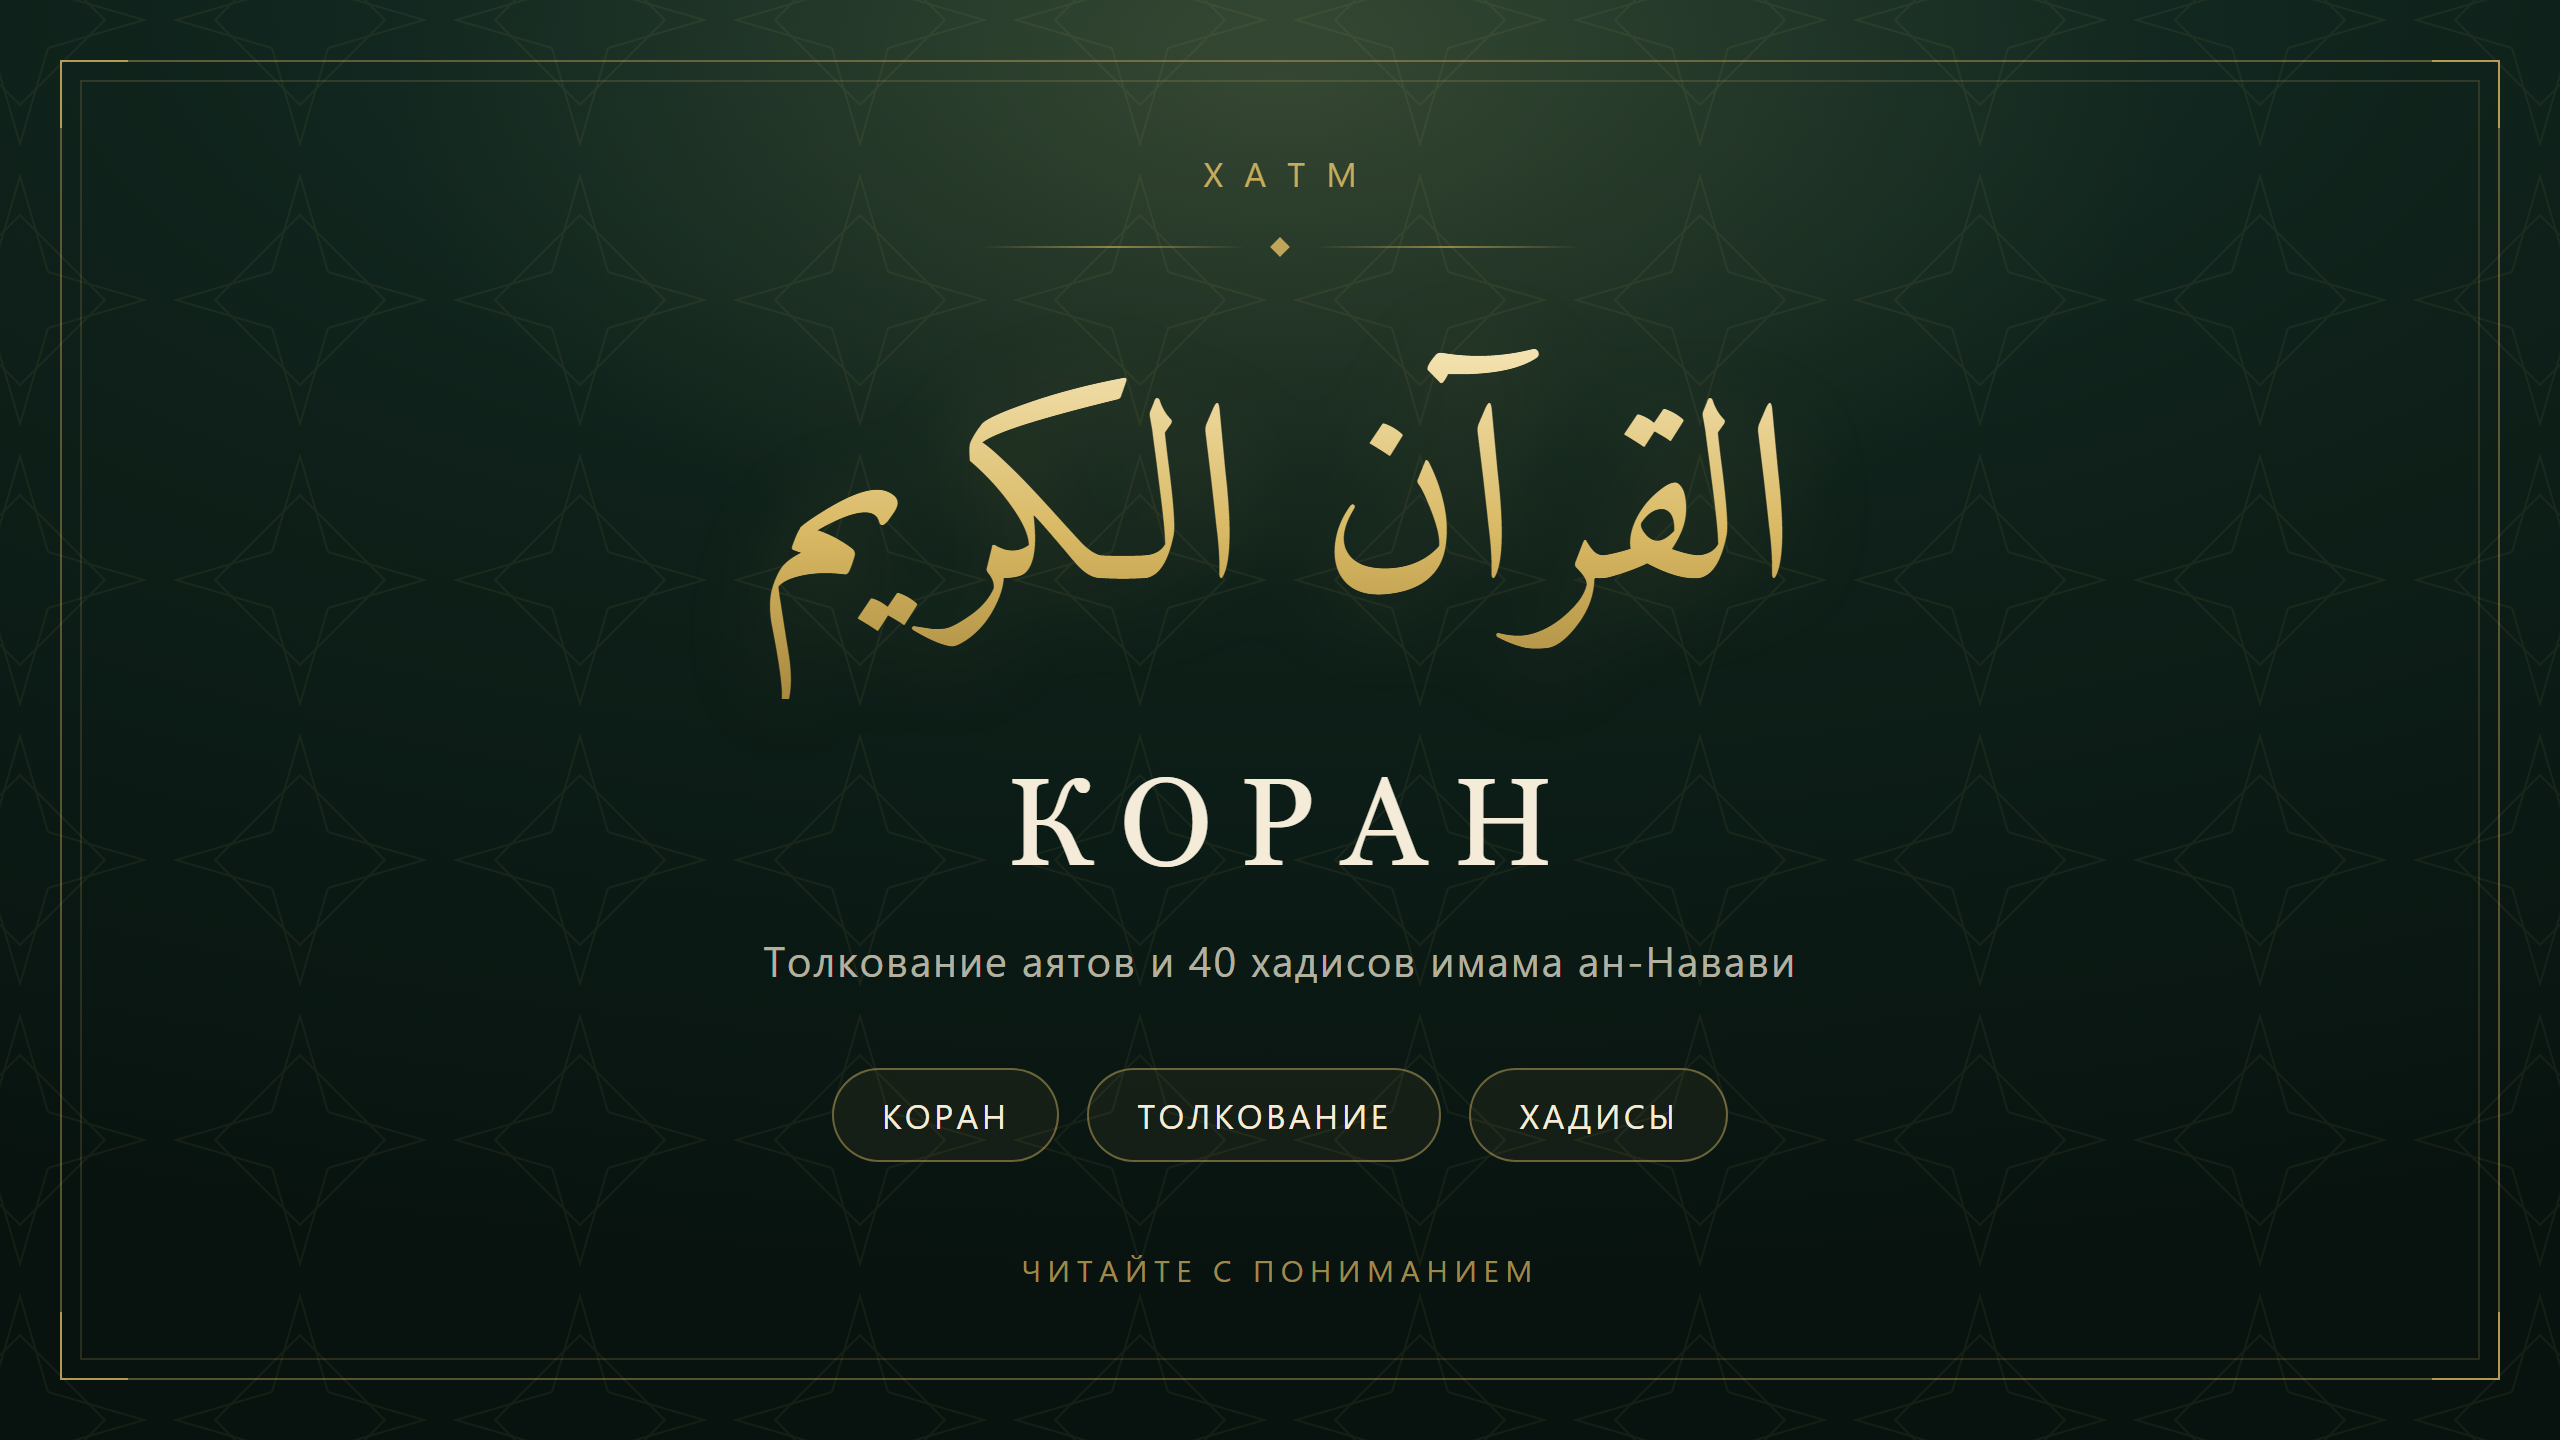
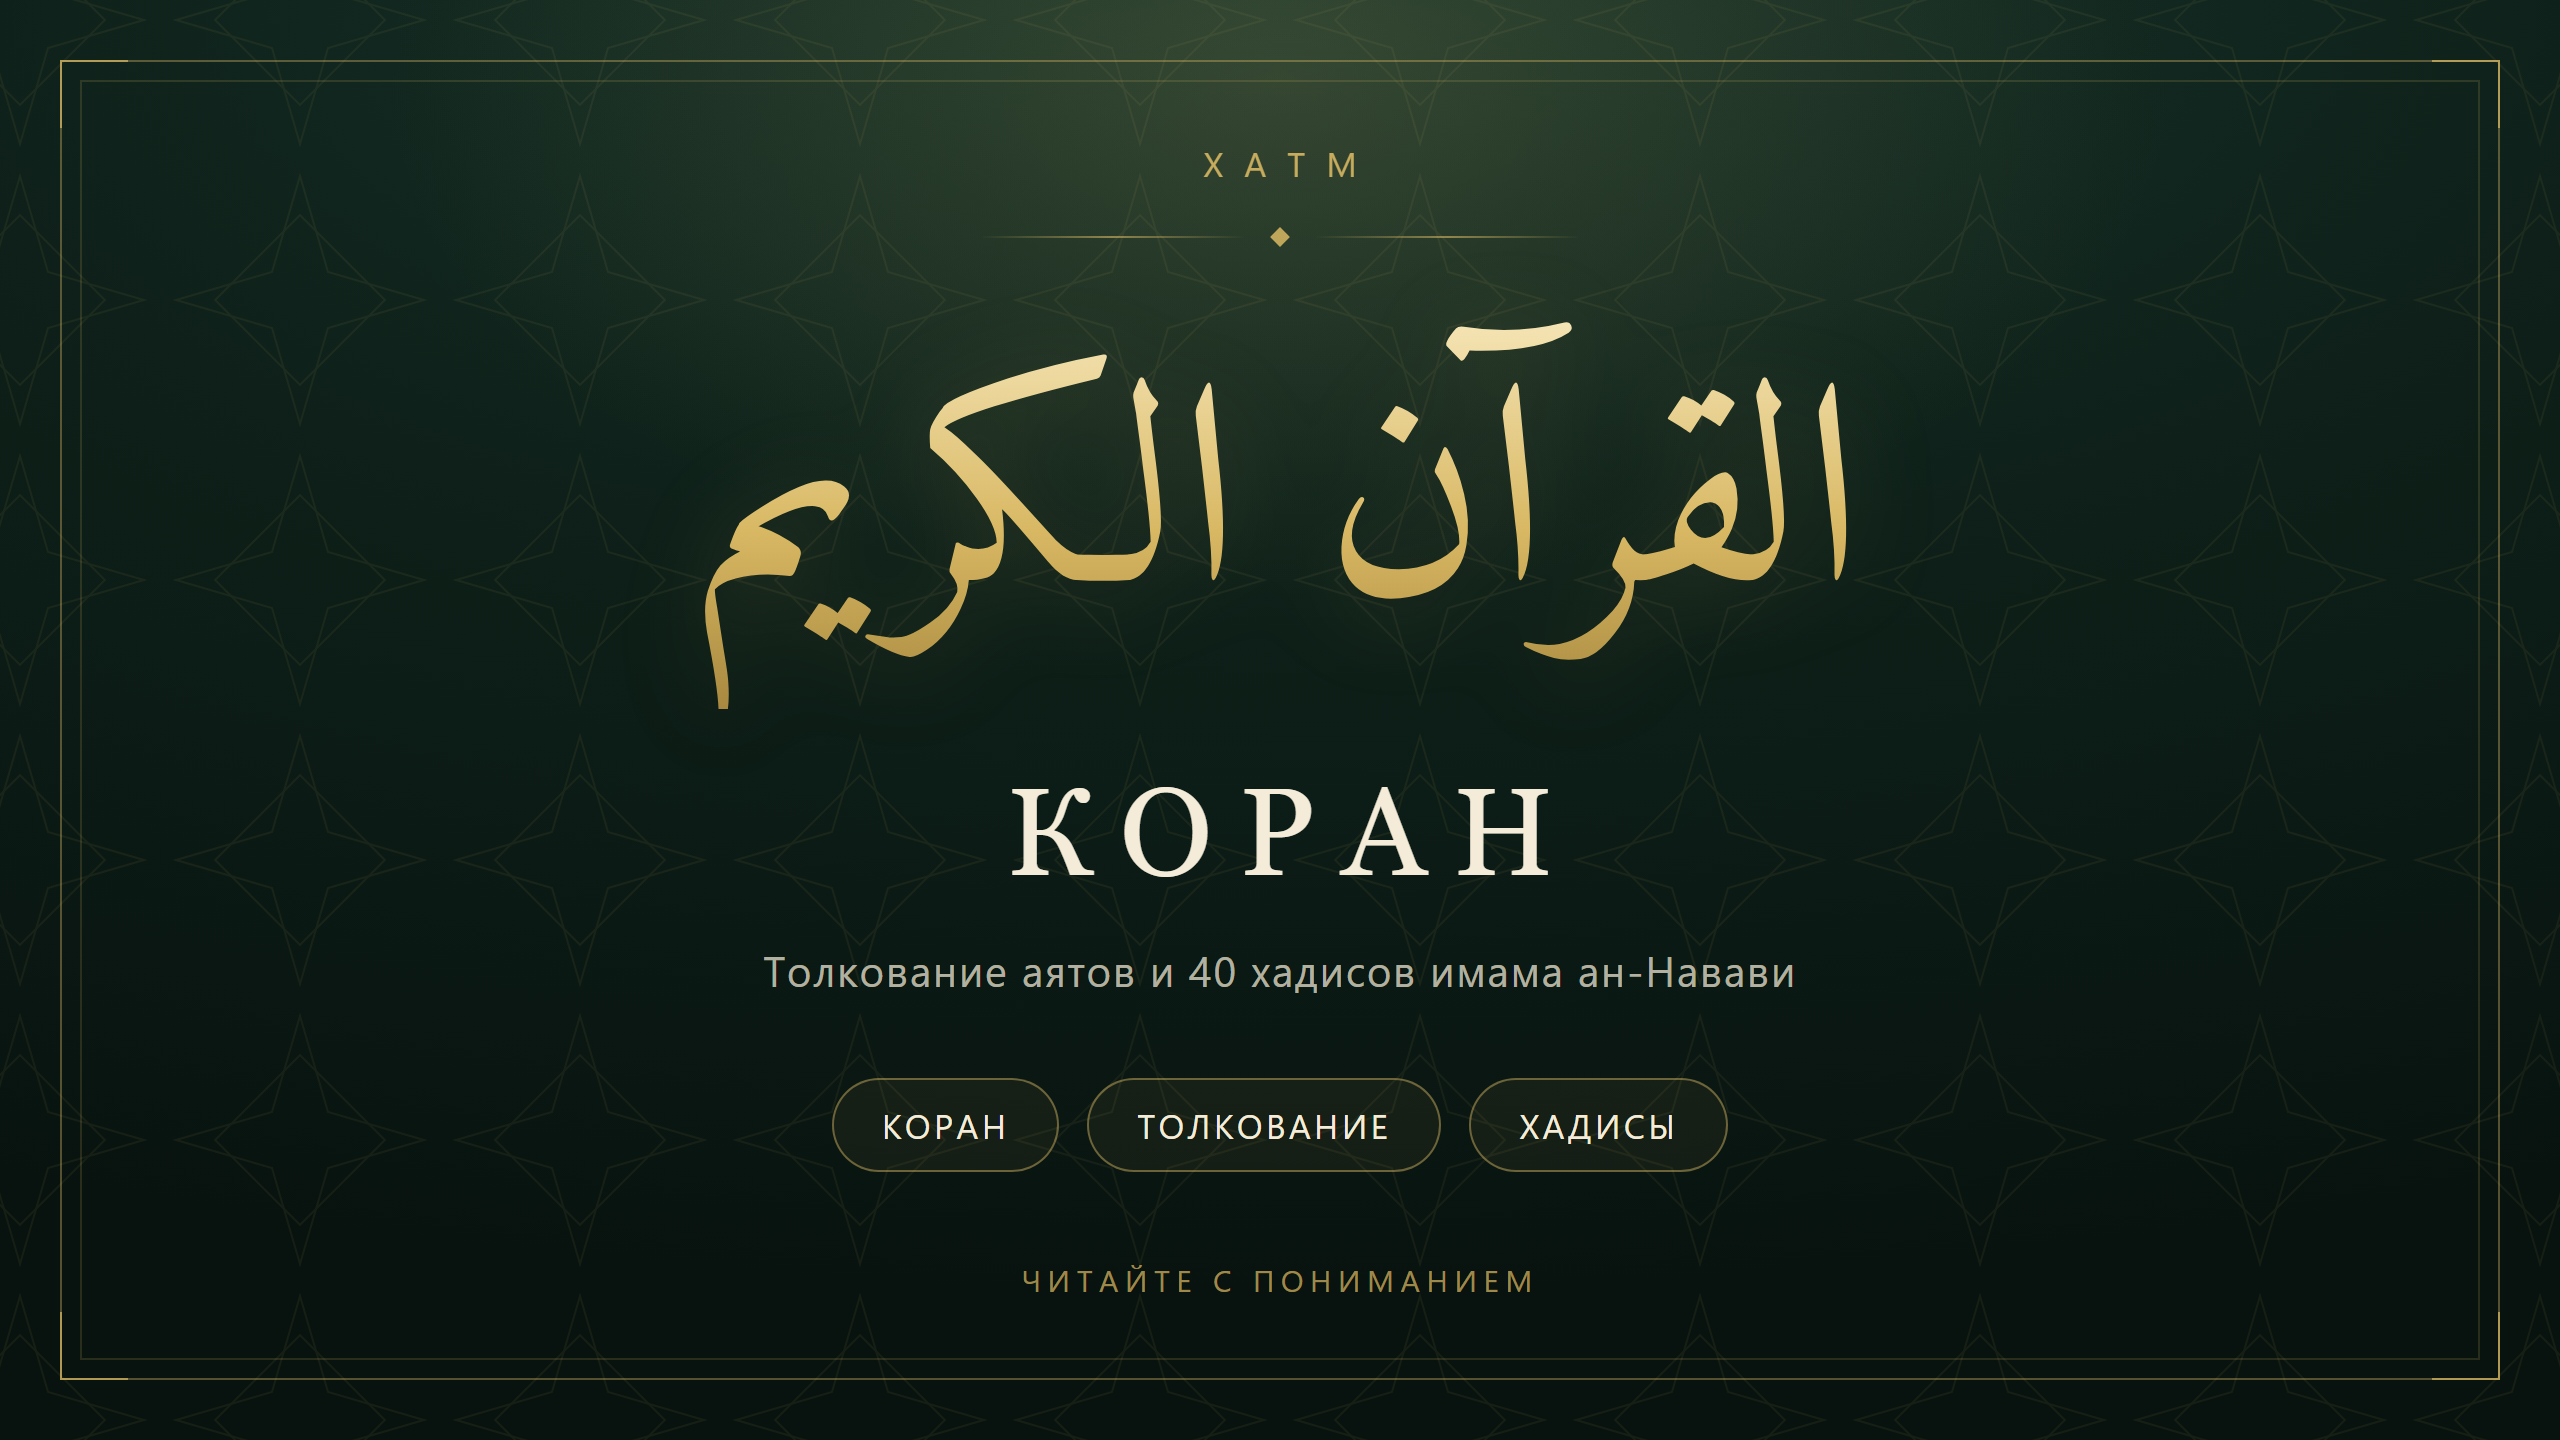
Обложка: арабский текст крупнее; бот: повторные попытки подключения к Telegram

diff --git a/bot/src/index.js b/bot/src/index.js
@@ -359,8 +359,34 @@ bot.catch((error, ctx) => {
 
 /* ── Запуск ── */
 
-bot.telegram
-  .getMe()
+const sleep = (ms) => new Promise((resolve) => setTimeout(resolve, ms));
+
+const NETWORK_ERROR = /ETIMEDOUT|ENOTFOUND|EAI_AGAIN|ECONNREFUSED|ECONNRESET|socket hang up|network|fetch failed/i;
+
+/**
+ * Связь с Telegram бывает нестабильной (особенно без VPN),
+ * поэтому первые подключения повторяем несколько раз.
+ */
+async function getMeWithRetry(attempts = 6) {
+  const delays = [2, 4, 6, 8, 10, 12];
+
+  for (let attempt = 1; attempt <= attempts; attempt++) {
+    try {
+      return await bot.telegram.getMe();
+    } catch (error) {
+      const message = String((error && error.message) || error);
+      if (attempt === attempts || !NETWORK_ERROR.test(message)) throw error;
+
+      const wait = delays[attempt - 1] || 12;
+      console.log(
+        "⏳ Telegram не отвечает (попытка " + attempt + " из " + attempts + "). Повторю через " + wait + " с…"
+      );
+      await sleep(wait * 1000);
+    }
+  }
+}
+
+getMeWithRetry()
   .then((me) => {
     console.log("🤖 Бот: @" + me.username + " (" + me.first_name + ")");
     console.log("👥 Пользователей в базе: " + store.users.length);
@@ -389,11 +415,12 @@ bot.telegram
         "\nПодсказка: этот бот уже запущен в другом окне или на другом компьютере.\n" +
           "  Остановите лишний экземпляр и запустите снова."
       );
-    } else if (/ETIMEDOUT|ENOTFOUND|EAI_AGAIN|ECONNREFUSED|ECONNRESET/.test(message)) {
+    } else if (NETWORK_ERROR.test(message)) {
       console.error(
-        "\nПодсказка: нет связи с api.telegram.org.\n" +
-          "  Проверьте интернет. Если Telegram открывается только через VPN —\n" +
-          "  включите VPN и запустите бота снова."
+        "\nПодсказка: нет стабильной связи с api.telegram.org.\n" +
+          "  • включите VPN (системный, не только в браузере) и запустите start.bat снова;\n" +
+          "  • проверьте, что интернет работает и ничего не блокирует Telegram;\n" +
+          "  • можно просто запустить start.bat ещё раз — иногда со второго раза проходит."
       );
     }
 

diff --git a/assets/promo/poster.html b/assets/promo/poster.html
@@ -146,10 +146,10 @@
   }
 
   .arabic {
-    margin-top: 40px;
+    margin-top: 34px;
     font-family: "Amiri", "Traditional Arabic", "Segoe UI", "Arial", serif;
-    font-size: 126px;
-    line-height: 1.45;
+    font-size: 142px;
+    line-height: 1.4;
     direction: rtl;
     unicode-bidi: isolate;
     background: linear-gradient(180deg, #f6e6b8 0%, #d8b863 55%, #a8893f 100%);
@@ -206,7 +206,7 @@
 
   /* Квадратная версия */
   #poster.square .content { padding: 0 100px; }
-  #poster.square .arabic { font-size: 172px; margin-top: 90px; }
+  #poster.square .arabic { font-size: 196px; margin-top: 74px; }
   #poster.square .title { font-size: 78px; margin-top: 44px; }
   #poster.square .subtitle { font-size: 25px; margin-top: 28px; line-height: 1.5; }
   #poster.square .chips { margin-top: 62px; gap: 16px; }

diff --git a/bot/README.md b/bot/README.md
@@ -220,6 +220,7 @@ pm2 startup        # автозапуск после перезагрузки
 | `❌ Не задан BOT_TOKEN` | Нет файла `bot/.env` или в нём пустой `BOT_TOKEN`. Скопируйте `.env.example` → `.env`. |
 | `401: Unauthorized` | Токен неверный или отозван. Возьмите новый у @BotFather (`/revoke`). |
 | `409: Conflict` | Бот уже запущен в другом месте (вторая консоль, pm2, другой сервер). Остановите лишний экземпляр. |
+| `ETIMEDOUT` / `нет стабильной связи с api.telegram.org` | Сеть не пропускает Telegram. Включите системный VPN (не только в браузере) и запустите снова. Бот сам делает 6 попыток подключения с паузами. |
 | `Не найден файл данных: ...` | Бот запущен не из `bot/`, либо папки `data/` нет рядом. Запускайте из `bot/` или укажите `DATA_DIR` в `.env` (абсолютный путь к папке `data`). |
 | `ENOSPC` при `npm install` | Мало места на диске. Используйте `npm install --cache D:\npm-cache`. |
 | Кнопки не отвечают | Проверьте, что процесс жив (`npm start`), и в консоли нет ошибок. |
